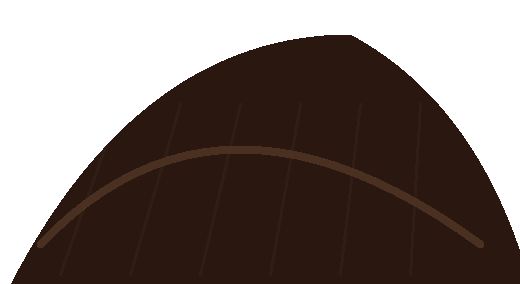
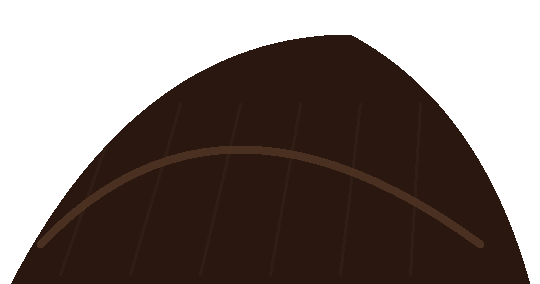
ujs: WIP 船头加宽 540 与桥加厚加深
未收口: 标题 exist 曾 64,现 74; look mae=18.

diff --git a/ujs/plans/demo-v2/look-dev/water-keeps-s0-uxe.html b/ujs/plans/demo-v2/look-dev/water-keeps-s0-uxe.html
@@ -48,6 +48,8 @@ async function pngRgba(path){
 
   const scene=new Scene();
   applyTestScene(scene,[0.12,0.08,0.05,1]);
+
+
   scene.fog.density=0;
   const skyP=await pngRgba("sky-gold.png");
   const watP=await pngRgba("water-gold.png");
@@ -68,6 +70,8 @@ async function pngRgba(path){
   if(location.hash.indexOf("nocloud")<0) layer(scene,"cloud",80,40,1120,180,5,1,1);
 
 
+
+
   if(location.hash.indexOf("nowater")<0) layer(scene,"water",0,288,1280,432,2,2,0);
   if(location.hash.indexOf("nowater")<0) layer(scene,"waterfx",0,288,1280,432,11,2,1);
 
@@ -80,15 +84,21 @@ async function pngRgba(path){
 
   if(location.hash.indexOf("noreed")<0) layer(scene,"reed",960,200,320,480,8,7,1);
 
-  if(location.hash.indexOf("nobow")<0) layer(scene,"bow",80,396,520,284,7,6,1);
+  if(location.hash.indexOf("nobow")<0) layer(scene,"bow",80,396,540,284,7,6,1);
+
 
   if(location.hash.indexOf("nolamp")<0) layer(scene,"bowlamp",284,376,40,40,9,8,1);
   if(location.hash.indexOf("nolotus")<0) layer(scene,"lotus",344,332,168,56,10,9,1);
 
   if(location.hash.indexOf("notitle")<0){
     const t=scene.text("WATER KEEPS",24,24,5,[0.04,0.025,0.012]);
+
+
+
     t.layer=20;
   }
+
+
 
 
 
